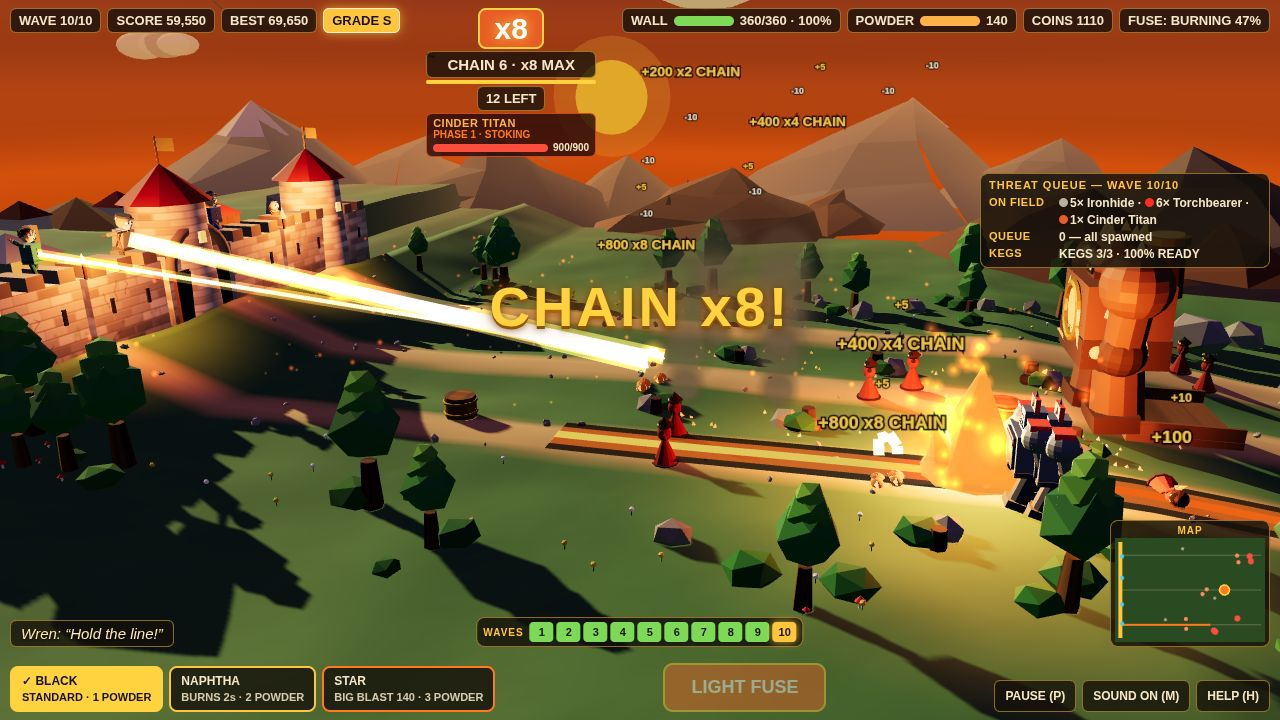
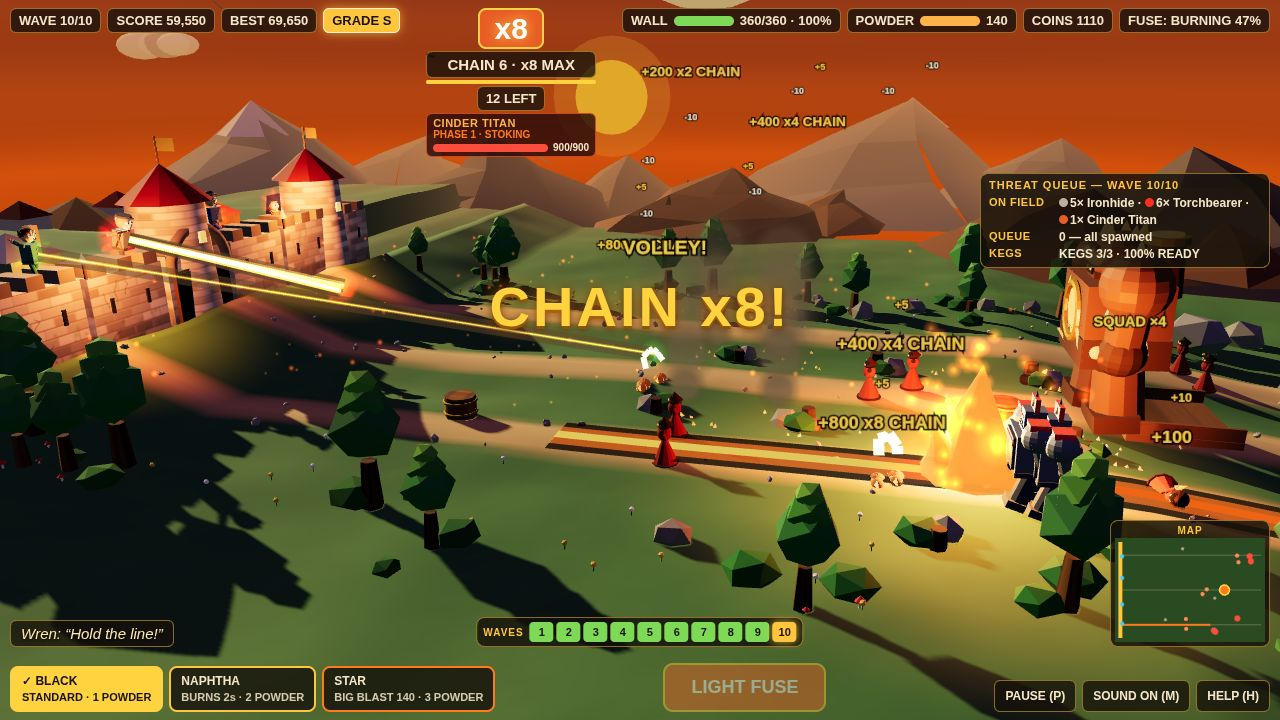
R6B: warm thin short beams + defenders visibly firing + VOLLEY! + SQUAD marker (Mark 15:11 WIB, items P3/P8)
- P3 beams: end at the bolt head (not the target), half widths (outer 0.8->0.4u, core 0.35->0.18u), deep gold core + orange edge, NO white core, dark-brown edge ribbon under the gold, stronger fade to the head; castle visible through them; action near-white 0.7% -> 0.1%
- P8 muzzles: ROOT CAUSE — flashes never spawned at the freeze (batched drain ran once with stale slot.t from the title screen, no slot ever free); fixed with born-relative reuse (the _spawnArc pattern) + ttl 0.9s->1.6s so the whole last volley shows (probe: 4/4 visible, thom 0.43s / mira 1.07s / pip 1.38s / wren 1.37s); fireball texture so the burst reads on the bright wall; per-defender colours (wren gold, pip orange, thom red, mira teal)
- P8 tracers: one colour per defender (same map); mira teal at the shared target, thom red x3 mid-flight (probe-verified)
- P8 VOLLEY!: label when 2+ live shots share a targetId (mira+thom on enemy 161 at the freeze); raised to +10u after proof showed it overlapping CHAIN x8!
- P8 SQUAD: densest live group of 4+ in one lane within 12u gets a SQUAD x4 tag (lane 0, ids 167-170, 10.2u spread); tag shifted -10u after proof showed it half off the right edge; ground ring tried (dark red + bright amber) and REMOVED — occluded behind the Titan from the action camera, never read
- Same batched-drain bug fixed in _spawnFlash/_spawnSmoke (only the last boom survived the freeze); born-relative reuse
[…]

diff --git a/game/src/render3d.js b/game/src/render3d.js
@@ -41,6 +41,11 @@ const SMOKE_POOL = 12;
 // frame never fills with stale lightning.
 const BEAM_POOL = 32;
 const ARC_POOL = 16;
+// ROUND 6 AGENT B (P8, Mark items 5-6): one tracer/muzzle colour per
+// defender, matching the defender's own identity in models.js — Wren
+// navy+gold, Pip brown+orange, Thom grey+crimson, Mira teal+brass. The
+// four shots are countable by colour in the still.
+const DEFENDER_COLORS = { wren: 0xffd23c, pip: 0xff7a1a, thom: 0xff453a, mira: 0x2dd4bf };
 const ARC_SEGMENTS = 5;
 const ARC_TTL = 1.0; // 0.25 -> 0.5 -> 1.0, each step measured: at 0.25s AND
 // 0.5s exactly 1 arc was alive at the x8 freeze (the kill rate right at
@@ -433,7 +438,7 @@ export class Renderer {
       ring.rotation.x = -Math.PI / 2;
       ring.visible = false;
       this.scene.add(ring);
-      this.flashes.push({ flash, ring, t: 99, ttl: 0.5, x: 0, z: 0, maxR: 5 });
+      this.flashes.push({ flash, ring, t: 99, ttl: 0.5, x: 0, z: 0, maxR: 5, born: -1 });
     }
 
     // Smoke puffs (pooled): warm gray billboards, normal blending.
@@ -442,7 +447,7 @@ export class Renderer {
       const puff = new THREE.Sprite(new THREE.SpriteMaterial({ map: this.smokeTex, transparent: true, opacity: 0, depthWrite: false }));
       puff.visible = false;
       this.scene.add(puff);
-      this.smokes.push({ puff, t: 99, ttl: 1.4, x: 0, z: 0, born: 0 });
+      this.smokes.push({ puff, t: 99, ttl: 1.4, x: 0, z: 0, born: -1 });
     }
 
     // ROUND 5 AGENT C (item #6): smoke columns on the fresh scorch — thin
@@ -535,12 +540,24 @@ export class Renderer {
     // 0.9s + slow fade keeps the most recent volley visible in the frozen
     // frame (Thom 0.4s: bright; older ones fade out). 8 slots still enough:
     // at most ~4-5 concurrent flashes (4 defenders x 1.4s cycle).
+    // ROUND 6 AGENT B (P8): ttl 0.9s -> 1.6s — the volley cycle is 1.4s
+    // and the freeze catches the four defenders at 0.43/1.07/1.37/1.38s
+    // (measured by probe at the titan freeze: thom 267.07, mira 266.43,
+    // wren 266.13, pip 266.12 vs world.time 267.5). 0.9s shows only Thom;
+    // 1.6s shows the WHOLE last volley, brightest first. born: -1 is the
+    // never-used sentinel for the born-relative reuse in _spawnMuzzle
+    // (same pattern as _spawnArc — see the batched-drain note there).
     this.muzzles = [];
     for (let i = 0; i < 8; i += 1) {
-      const m = new THREE.Sprite(new THREE.SpriteMaterial({ map: this.glowTex, color: 0xffd23f, transparent: true, opacity: 0, depthWrite: false, blending: THREE.AdditiveBlending }));
+      // ROUND 6 AGENT B (P8): fireball texture, not the soft glow — the
+      // glow's additive gold washes out against the bright wall/sky, so
+      // the flash read as a faint smudge at the beam origin. The shaped
+      // fireball (deep gold core, orange mid, red-orange edge — the round-3
+      // blast texture) reads as a real burst at the defender.
+      const m = new THREE.Sprite(new THREE.SpriteMaterial({ map: this.fireballTex, color: 0xffd23f, transparent: true, opacity: 0, depthWrite: false, blending: THREE.AdditiveBlending }));
       m.visible = false;
       this.scene.add(m);
-      this.muzzles.push({ sprite: m, t: 99, ttl: 0.9, born: 0, x: 0, z: 0 });
+      this.muzzles.push({ sprite: m, t: 99, ttl: 1.6, born: -1, x: 0, z: 0, kind: null });
     }
 
     // ROUND 3 AGENT A (items 1+3): defender shot tracers — bright glowing
@@ -598,6 +615,27 @@ export class Renderer {
     this._beamCore.renderOrder = 5;
     this._beamCore.visible = false;
     this.scene.add(this._beamCore);
+
+    // ROUND 6 AGENT B (P3): dark edge under the beams — a normal-blending
+    // dark-brown ribbon, slightly wider than the gold, drawn first
+    // (renderOrder 4) so the warm beam reads as gold fire with an outline
+    // instead of glare. Additive blending cannot draw darkness, so this
+    // third layer is the only way to get a dark edge.
+    this._beamEdgeGeo = makeRibbonGeo(BEAM_POOL);
+    this._beamEdgeMat = new THREE.MeshBasicMaterial({ vertexColors: true, transparent: true, opacity: 0.5, depthWrite: false, side: THREE.DoubleSide });
+    this._beamEdge = new THREE.Mesh(this._beamEdgeGeo, this._beamEdgeMat);
+    this._beamEdge.frustumCulled = false;
+    this._beamEdge.renderOrder = 4;
+    this._beamEdge.visible = false;
+    this.scene.add(this._beamEdge);
+
+    // ROUND 6 AGENT B (P8): VOLLEY! label + SQUAD cluster marker —
+    // canvas-text sprites on the popup pattern (256x64 canvas, depthTest
+    // false, renderOrder 10). Both are pure functions of the frozen world
+    // state, so a staged frame is byte-identical.
+    this._volleyLabel = this._makeLabelSprite('VOLLEY!', 0xffd23c, 11, 2.75);
+    this._squadLabel = this._makeLabelSprite('SQUAD ×4', 0xffd23c, 9, 2.25);
+    this._squadLabelText = 'SQUAD ×4';
 
     // ROUND 5 AGENT A (item #2): chain-lightning arcs — short jagged gold
     // ribbons between consecutive chain kills. One mesh, ARC_POOL slots x
@@ -938,7 +976,9 @@ export class Renderer {
         }
       } else if (ev.type === 'shoot') {
         // ROUND 3 (item 1): a defender fired — muzzle flash at the wall.
-        this._spawnMuzzle(ev.time, ev.x, ev.z);
+        // ROUND 6 AGENT B (P8): pass the defender kind so the flash takes
+        // that defender's colour.
+        this._spawnMuzzle(ev.time, ev.x, ev.z, ev.defender);
       } else if (ev.type === 'chain') {
         // ROUND 5 AGENT A (item #2): chain-lightning arc between
         // consecutive chain kills. Events drain in sim order, so the
@@ -1032,6 +1072,38 @@ export class Renderer {
     return q + 1;
   }
 
+  // ROUND 6 AGENT B (P8): canvas-text label sprite on the popup pattern
+  // (256x64 canvas, depthTest false, renderOrder 10, gold text with a
+  // dark stroke so it reads over the bright field).
+  _drawLabelText(canvas, tex, text, colorHex) {
+    const ctx = canvas.getContext('2d');
+    ctx.clearRect(0, 0, 256, 64);
+    ctx.textAlign = 'center';
+    ctx.textBaseline = 'middle';
+    ctx.font = 'bold 34px Arial, sans-serif';
+    ctx.lineWidth = 7;
+    ctx.strokeStyle = 'rgba(20, 10, 5, 0.9)';
+    ctx.strokeText(text, 128, 32);
+    ctx.fillStyle = `#${colorHex.toString(16).padStart(6, '0')}`;
+    ctx.fillText(text, 128, 32);
+    tex.needsUpdate = true;
+  }
+
+  _makeLabelSprite(text, colorHex, w, h) {
+    const canvas = document.createElement('canvas');
+    canvas.width = 256;
+    canvas.height = 64;
+    const tex = new THREE.CanvasTexture(canvas);
+    tex.colorSpace = THREE.SRGBColorSpace;
+    const sprite = new THREE.Sprite(new THREE.SpriteMaterial({ map: tex, transparent: true, depthTest: false }));
+    sprite.visible = false;
+    sprite.renderOrder = 10;
+    sprite.scale.set(w, h, 1);
+    this.scene.add(sprite);
+    this._drawLabelText(canvas, tex, text, colorHex);
+    return { sprite, canvas, tex, colorHex };
+  }
+
   // ROUND 5 AGENT A (item #1): beams — one ribbon per live defender shot,
   // muzzle -> target's current position. Fade = distance travelled: the
   // beam thins and dims as the shot nears its target (fade 1 -> 0.45).
@@ -1042,23 +1114,41 @@ export class Renderer {
     const cam = this.camera.position;
     let qo = 0;
     let qc = 0;
+    let qe = 0;
     for (let i = 0; i < n; i += 1) {
       const s = shots[i];
       const def = DEFENDER_DEFS.find((d) => d.kind === s.kind);
       const mz = def ? def.z : s.z;
       const p0 = { x: WORLD.WALL_X - 0.5, y: wallTopY(mz) + 2.2, z: mz };
-      const p1 = { x: s.tx, y: terrainHeight(s.tx, s.tz) + 1.5, z: s.tz };
+      // Fraction travelled (s.dist is distance REMAINING: 1 at fire, 0
+      // on arrival — verified against the probe: mira's bolt at dist 1.5
+      // of 50 sits at x 0.4, nearly on its target at tx 1.2).
       const frac = Math.max(0, Math.min(1, 1 - (s.dist !== undefined ? s.dist : 0) / (s.total || 1)));
-      const fade = 1 - frac * 0.55;
-      // ROUND 5 correction (deep top-5 analysis, 04:34 WIB): KINGFISHER
-      // #1 is BRIGHT DAYLIGHT and its white FAT water-drop cone proves a
-      // bright line CAN read on a bright field — the lesson is THICKNESS
-      // + CONTRAST, not darkness. So the beams are FAT: outer orange edge
-      // 0.8u + inner white-gold core 0.35u. Same colors/opacity as before
-      // (no brightness creep — washout is still forbidden, beacon lesson).
-      qo = this._writeRibbonQuad(this._beamOuterGeo, qo, p0, p1, cam, 0.8 * fade, 1.0 * fade, 0.54 * fade, 0.10 * fade);
-      qc = this._writeRibbonQuad(this._beamCoreGeo, qc, p0, p1, cam, 0.35 * fade, 1.0 * fade, 0.95 * fade, 0.75 * fade);
+      // ROUND 6 AGENT B (P3): the beam ends at the BOLT HEAD (the shot's
+      // current position, same y interpolation as the tracer), not at the
+      // target — it is the bolt's trail, so it reads as a short gold bolt
+      // instead of a frame-crossing white streak. At the freeze the three
+      // live Thom bolts are ~43% travelled, Mira's ~97%.
+      const y0 = wallTopY(mz) + 2.2;
+      const y1 = terrainHeight(s.tx, s.tz) + 1.5;
+      const p1 = { x: s.x, y: y0 + (y1 - y0) * frac, z: s.z };
+      // Fade = distance travelled: the beam dims toward the bolt head
+      // (fade 1 -> 0.3, was 1 -> 0.45) so the far end dissolves.
+      const fade = 1 - frac * 0.7;
+      // ROUND 6 (P3, Mark item 2, top-4 evidence): warm + thin + short.
+      // NO white core — deep gold core (1.0, 0.68, 0.12), orange edge
+      // (0.9, 0.42, 0.06), half widths halved (outer 0.8 -> 0.4, core
+      // 0.35 -> 0.18). The round-5 "fat so it reads on bright" logic is
+      // contradicted by the top 4: no top-4 entry uses a fat white beam.
+      // Dark edge (0.55u, constant dark brown) under the gold.
+      qe = this._writeRibbonQuad(this._beamEdgeGeo, qe, p0, p1, cam, 0.55, 0.14, 0.08, 0.04);
+      qo = this._writeRibbonQuad(this._beamOuterGeo, qo, p0, p1, cam, 0.4 * fade, 0.9 * fade, 0.42 * fade, 0.06 * fade);
+      qc = this._writeRibbonQuad(this._beamCoreGeo, qc, p0, p1, cam, 0.18 * fade, 1.0 * fade, 0.68 * fade, 0.12 * fade);
     }
+    this._beamEdgeGeo.setDrawRange(0, qe * 6);
+    this._beamEdgeGeo.attributes.position.needsUpdate = true;
+    this._beamEdgeGeo.attributes.color.needsUpdate = true;
+    this._beamEdge.visible = qe > 0;
     this._beamOuterGeo.setDrawRange(0, qo * 6);
     this._beamOuterGeo.attributes.position.needsUpdate = true;
     this._beamOuterGeo.attributes.color.needsUpdate = true;
@@ -1116,14 +1206,26 @@ export class Renderer {
     this._arcMesh.visible = q > 0;
   }
 
-  _spawnMuzzle(evTime, x, z) {
+  _spawnMuzzle(evTime, x, z, defenderKind) {
+    // ROUND 6 AGENT B (P8): born-relative reuse — the SAME batched-drain
+    // bug _spawnArc already documents. The old test (slot.t > slot.ttl)
+    // used a STALE slot.t during the drain: at the freeze the drain runs
+    // once, BEFORE _updateMuzzles, with slot.t left over from the title
+    // screen (~0.5s < 0.9s ttl) — so NO slot ever looked free and ZERO
+    // muzzle flashes spawned at the freeze (proven by probe: all 8 slots
+    // born=0, visible=false at world.time 267.5). Born-relative reuse
+    // keeps the last volley's flashes in their own slots, like arcs.
     for (const slot of this.muzzles) {
-      if (slot.t > slot.ttl) {
+      if (slot.born < 0 || (evTime - slot.born) > slot.ttl) {
         slot.born = (typeof evTime === 'number' ? evTime : this.time);
         slot.t = this.time - slot.born;
-        slot.ttl = 0.9;
+        slot.ttl = 1.6;
         slot.x = x;
         slot.z = z;
+        slot.kind = defenderKind || null;
+        if (defenderKind && DEFENDER_COLORS[defenderKind] !== undefined) {
+          slot.sprite.material.color.setHex(DEFENDER_COLORS[defenderKind]);
+        }
         slot.sprite.visible = true;
         return;
       }
@@ -1158,6 +1260,11 @@ export class Renderer {
         continue;
       }
       const s = shots[i];
+      // ROUND 6 AGENT B (P8): one tracer colour per defender, so the
+      // four shots are countable by colour (wren gold, pip orange, thom
+      // red, mira teal — DEFENDER_COLORS). Tracers are reassigned by
+      // index each frame, so the colour follows the shot's kind.
+      tr.material.color.setHex(DEFENDER_COLORS[s.kind] || 0xffd23f);
       // y interpolates from the muzzle (wall top + chest height) down to
       // the target's torso by the fraction travelled (the sim tracks
       // dist/total, so the arc is a pure function of sim state). Sprites
@@ -1171,6 +1278,90 @@ export class Renderer {
       tr.position.set(s.x, y, s.z);
       tr.visible = true;
     }
+  }
+
+  // ROUND 6 AGENT B (P8): VOLLEY! — when 2+ live shots converge on the
+  // same target (same targetId), the multi-shot moment gets a label above
+  // that target. Pure function of world.shots, so the staged frame is
+  // byte-identical. At the titan freeze Mira + Thom both target enemy 161
+  // (measured by probe), so the label shows at (1.2, 0.9). The ULTIMATE
+  // proof is still Rizal's playtest — this is supporting evidence in the
+  // still.
+  _updateVolleyLabel() {
+    const world = this.world;
+    const label = this._volleyLabel;
+    if (!label) return;
+    const shots = world && Array.isArray(world.shots) ? world.shots : [];
+    const byTarget = new Map();
+    for (const s of shots) {
+      const k = s.targetId;
+      if (k === undefined || k === null) continue;
+      const e = byTarget.get(k) || { n: 0, tx: s.tx, tz: s.tz };
+      e.n += 1;
+      byTarget.set(k, e);
+    }
+    let best = null;
+    for (const e of byTarget.values()) {
+      if (e.n >= 2 && (!best || e.n > best.n)) best = e;
+    }
+    if (!best) { label.sprite.visible = false; return; }
+    // R6B fix (proof): +6.5u put the label ON TOP of the "CHAIN x8!"
+    // DOM text. +10u lifts it clear of the banner and the top bars.
+    const y = terrainHeight(best.tx, best.tz) + 10;
+    label.sprite.position.set(best.tx, y, best.tz);
+    label.sprite.visible = true;
+  }
+
+  // ROUND 6 AGENT B (P8): SQUAD cluster marker — the densest group of
+  // 4-5 live enemies in one lane (the round-3 spawnGroup size) gets a
+  // "SQUAD ×n" tag. Pure function of world.enemies.
+  // At the titan freeze the tightest group is lane 0, ids 167-170, x
+  // 42.3-52.5 (10.2u spread, 6-16u from the gate at SPAWN_X 58.2).
+  // Groups spawn in the sim (spawnGroup, round 3) — this only MARKS
+  // them; no sim change. NOTE: a ground ring under the cluster was tried
+  // and REMOVED — from the action camera the cluster sits behind the
+  // Titan, so no ring colour/opacity read in the still; the tag alone is
+  // the marker.
+  _updateSquadMarker() {
+    const world = this.world;
+    const label = this._squadLabel;
+    if (!label) return;
+    const enemies = world && Array.isArray(world.enemies) ? world.enemies.filter((e) => !e.dead) : [];
+    const byLane = new Map();
+    for (const e of enemies) {
+      const list = byLane.get(e.lane) || [];
+      list.push(e);
+      byLane.set(e.lane, list);
+    }
+    let best = null;
+    for (const list of byLane.values()) {
+      list.sort((a, b) => a.x - b.x);
+      for (let i = 0; i < list.length; i += 1) {
+        for (let j = i + 3; j < Math.min(list.length, i + 5); j += 1) {
+          const spread = list[j].x - list[i].x;
+          if (spread > 12) break;
+          const n = j - i + 1;
+          if (n >= 4 && (!best || n > best.n || (n === best.n && spread < best.spread))) {
+            let cx = 0;
+            let cz = 0;
+            for (let k = i; k <= j; k += 1) { cx += list[k].x; cz += list[k].z; }
+            best = { n, spread, cx: cx / n, cz: cz / n };
+          }
+        }
+      }
+    }
+    if (!best) { label.sprite.visible = false; return; }
+    const y = terrainHeight(best.cx, best.cz);
+    const text = `SQUAD ×${best.n}`;
+    if (text !== this._squadLabelText) {
+      this._squadLabelText = text;
+      this._drawLabelText(label.canvas, label.tex, text, label.colorHex);
+    }
+    // R6B fix (proof): the tag at the centroid (x ~47, near the spawn
+    // gate) was HALF OFF the right frame edge. The tag sits 10u toward
+    // the wall so it reads fully in-frame.
+    label.sprite.position.set(best.cx - 10, y + 5.5, best.cz);
+    label.sprite.visible = true;
   }
 
   _burstCentroid(world) {
@@ -1189,8 +1380,13 @@ export class Renderer {
   }
 
   _spawnFlash(world, evTime, x, z) {
+    // ROUND 6 AGENT B (P8): born-relative reuse — same batched-drain bug
+    // as _spawnMuzzle/_spawnArc. The old test (slot.t > slot.ttl) made
+    // every boom in the drain overwrite slot 0 (this.time is the freeze
+    // time for every spawn, so a just-born slot always looked free) and
+    // only the LAST boom's fireball survived the freeze.
     for (const slot of this.flashes) {
-      if (slot.t > slot.ttl) {
+      if (slot.born < 0 || (evTime - slot.born) > slot.ttl) {
         // Birth in SIM time (the event carries world.time): the flash's
         // progress is then a pure function of world.time, so a frozen
         // staged frame renders identically no matter how many render
@@ -1222,7 +1418,10 @@ export class Renderer {
     const offs = [[-1.5, 0.5], [0.8, 1.0], [1.4, -0.9]];
     for (const [dx, dz] of offs) {
       for (const slot of this.smokes) {
-        if (slot.t > slot.ttl) {
+        // ROUND 6 AGENT B (P8): born-relative reuse — same batched-drain
+        // bug as _spawnFlash: the old stale-t test let every boom in the
+        // drain overwrite the same puff slots.
+        if (slot.born < 0 || (evTime - slot.born) > slot.ttl) {
           slot.born = (typeof evTime === 'number' ? evTime : this.time);
           slot.t = this.time - slot.born;
           slot.ttl = 1.4;
@@ -1990,6 +2189,10 @@ export class Renderer {
     // camera position for their side vectors.
     this._updateBeams();
     this._updateArcs();
+
+    // ROUND 6 AGENT B (P8): VOLLEY! label + SQUAD cluster marker.
+    this._updateVolleyLabel();
+    this._updateSquadMarker();
   }
 
   render() {
